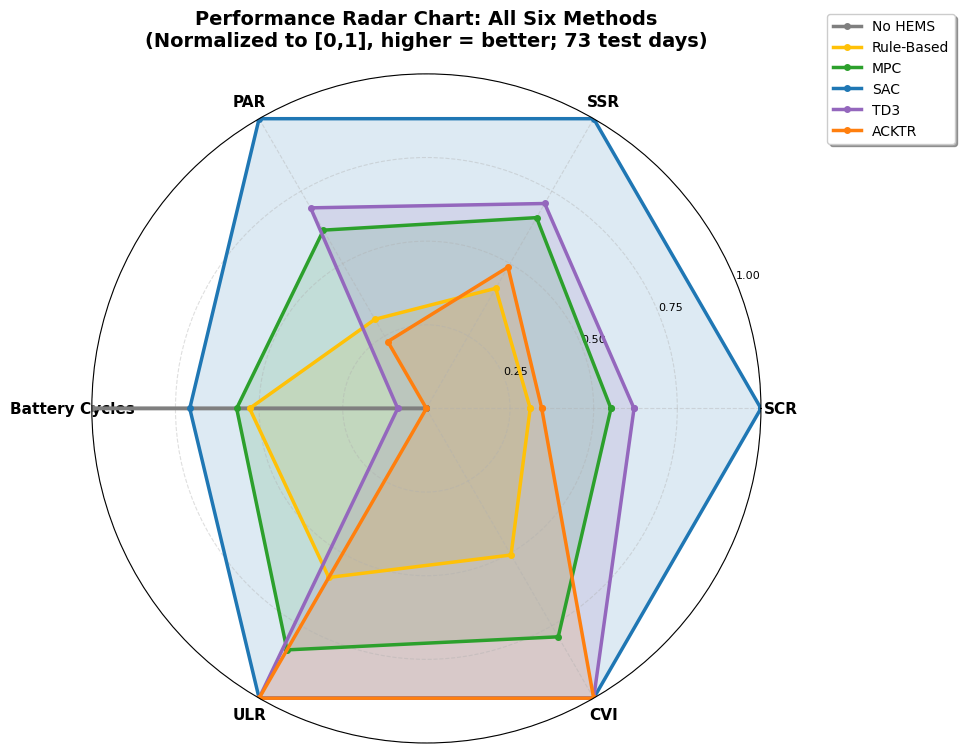
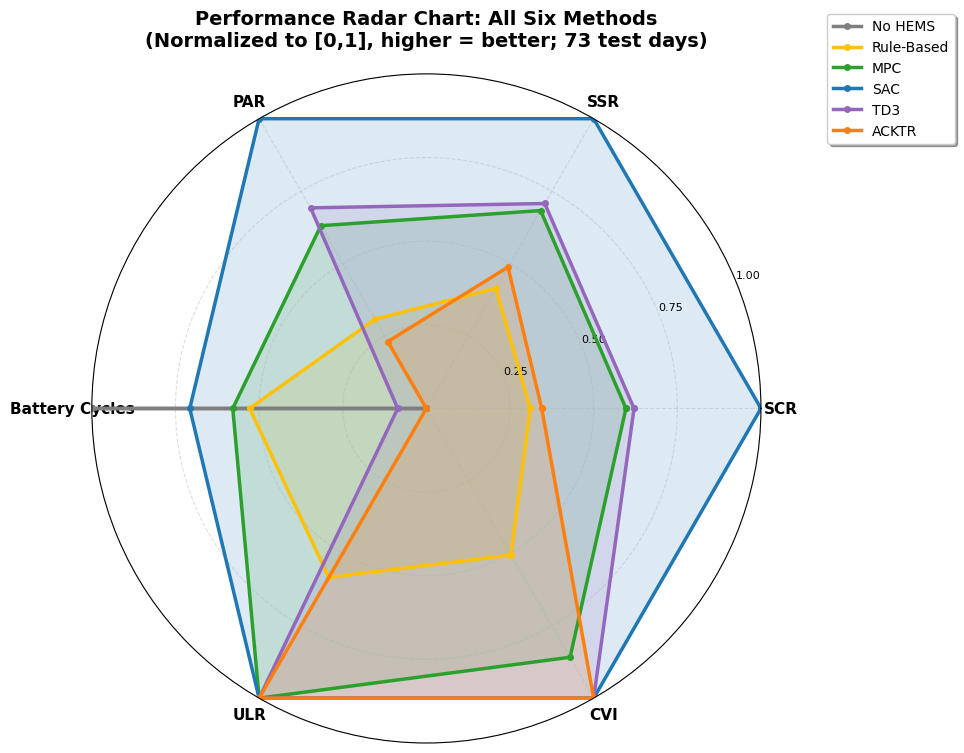
Update result images and replace MPC baseline with improved v2 version

diff --git a/src/baselines/MPCBaseline_improved_v2.py b/src/baselines/MPCBaseline_improved_v2.py
@@ -1,0 +1,285 @@
+
+#!/usr/bin/env python3
+# -*- coding: utf-8 -*-
+"""
+MPC Baseline with Full Thermal-HVAC Control
+-------------------------------------------
+This version replaces the battery-only MPC with a full MILP that optimises
+both battery scheduling and HVAC thermal power over a 12-hour horizon.
+It uses a 1R1C RC network for building thermal dynamics and enforces
+soft comfort constraints with large penalties.
+
+Usage:
+    from MPCBaseline_improved_v2 import MPCBaselineImprovedV2
+    mpc = MPCBaselineImprovedV2(horizon=12)
+    bat_action, hvac_action, slack = mpc.solve(
+        current_SoC, current_T_in,
+        load_forecast, pv_forecast,
+        temp_forecast, internal_gains_forecast,
+        price_forecast,
+        prev_P_ch=0.0, prev_P_dis=0.0, prev_Q_HVAC=0.0
+    )
+"""
+
+import numpy as np
+from pulp import *
+import warnings
+warnings.filterwarnings("ignore")
+
+
+class MPCBaselineImprovedV2:
+    """
+    MPC with battery and HVAC control using a 1R1C thermal model.
+    Solves a mixed-integer linear program (MILP) with binary variables
+    for battery charge/discharge and HVAC ON/OFF status.
+    """
+
+    def __init__(self, horizon=12):
+        self.H = horizon
+
+        # ---------- Battery parameters ----------
+        self.E_max = 10.0          # kWh
+        self.P_bat_max = 6.0       # kW
+        self.eta_ch = 0.95
+        self.eta_dis = 0.95
+        self.SoC_min = 0.05 * self.E_max   # 0.5 kWh
+        self.SoC_max = 0.95 * self.E_max   # 9.5 kWh
+
+        # ---------- HVAC / thermal parameters ----------
+        # These must match the values used in the DRL environment.
+        self.R = 5.0               # °C/kW   thermal resistance
+        self.C = 4.0               # kWh/°C  thermal capacitance
+        self.Q_max = 10.0          # kW      max thermal power
+        self.COP = 3.0             # coefficient of performance
+        self.T_min = 20.0          # °C      lower comfort bound
+        self.T_max = 26.0          # °C      upper comfort bound
+        self.lambda_slack = 1e3    # penalty for comfort violations
+
+        # ---------- Grid / economic ----------
+        self.c_export = 0.08       # $/kWh   feed‑in tariff
+
+        # ---------- Forecast improvement (optional) ----------
+        self.pv_history = []
+        self.load_history = []
+        self.temp_history = []
+
+    def solve(self, current_SoC, current_T_in,
+              P_load_forecast, P_pv_forecast,
+              T_out_forecast, Q_internal_forecast,
+              price_forecast,
+              prev_P_ch=0.0, prev_P_dis=0.0, prev_Q_HVAC=0.0):
+        """
+        Solve the MPC optimisation problem.
+
+        Parameters
+        ----------
+        current_SoC : float
+            Current battery state of charge (kWh)
+        current_T_in : float
+            Current indoor temperature (°C)
+        P_load_forecast : list of float OR float
+            Forecasted non‑HVAC load (kW) for next H hours.
+            If a scalar is given, it is repeated H times.
+        P_pv_forecast : list of float OR float
+            Forecasted PV generation (kW)
+        T_out_forecast : list of float OR float
+            Forecasted outdoor temperature (°C)
+        Q_internal_forecast : list of float OR float
+            Forecasted internal heat gains (kW) from occupants + solar
+        price_forecast : list of float OR float
+            Electricity prices ($/kWh)
+        prev_P_ch, prev_P_dis, prev_Q_HVAC : float
+            Previous actions (used for smoothness, optional)
+
+        Returns
+        -------
+        bat_action : float
+            Battery power (kW), positive = discharge, negative = charge
+        hvac_action : float
+            HVAC thermal power (kW), positive = cooling
+        slack_total : float
+            Total slack used (comfort violations) – for monitoring
+        """
+        H = self.H
+
+        # ---------- Helper to convert scalar to list and pad ----------
+        def to_list_and_pad(value, length):
+            """Convert scalar to list of length `length`, or pad existing list."""
+            if not isinstance(value, (list, tuple, np.ndarray)):
+                # Scalar: repeat it `length` times
+                return [value] * length
+            # It's already a list-like object
+            if len(value) < length:
+                # Pad with last value
+                return list(value) + [value[-1]] * (length - len(value))
+            return list(value[:length])
+
+        # Convert all forecast inputs to lists of length H
+        P_load_forecast = to_list_and_pad(P_load_forecast, H)
+        P_pv_forecast   = to_list_and_pad(P_pv_forecast, H)
+        T_out_forecast  = to_list_and_pad(T_out_forecast, H)
+        Q_internal_forecast = to_list_and_pad(Q_internal_forecast, H)
+        price_forecast  = to_list_and_pad(price_forecast, H)
+
+        # ---------- Optional forecast improvement ----------
+        self.load_history.append(P_load_forecast[0])
+        self.pv_history.append(P_pv_forecast[0])
+        self.temp_history.append(T_out_forecast[0])
+        if len(self.load_history) > 48:
+            self.load_history.pop(0)
+            self.pv_history.pop(0)
+            self.temp_history.pop(0)
+
+        improved_load = self._improve_forecast(P_load_forecast, self.load_history)
+        improved_pv   = self._improve_forecast(P_pv_forecast, self.pv_history)
+
+        # ---------- Build the MILP model ----------
+        prob = LpProblem("MPC_HVAC", LpMinimize)
+
+        # ----- Decision variables -----
+        # Battery
+        P_ch = [LpVariable(f"ch_{t}", lowBound=0, upBound=self.P_bat_max) for t in range(H)]
+        P_dis = [LpVariable(f"dis_{t}", lowBound=0, upBound=self.P_bat_max) for t in range(H)]
+        SoC = [LpVariable(f"soc_{t}", lowBound=self.SoC_min, upBound=self.SoC_max) for t in range(H+1)]
+        z_ch = [LpVariable(f"zch_{t}", cat='Binary') for t in range(H)]
+        z_dis = [LpVariable(f"zdis_{t}", cat='Binary') for t in range(H)]
+
+        # Grid
+        P_import = [LpVariable(f"imp_{t}", lowBound=0) for t in range(H)]
+        P_export = [LpVariable(f"exp_{t}", lowBound=0) for t in range(H)]
+
+        # HVAC / thermal
+        Q_hvac = [LpVariable(f"qhv_{t}", lowBound=0, upBound=self.Q_max) for t in range(H)]
+        z_on = [LpVariable(f"zon_{t}", cat='Binary') for t in range(H)]
+        P_hvac_elec = [LpVariable(f"phe_{t}", lowBound=0) for t in range(H)]
+
+        # Indoor temperature (H+1 so we have T_in[H] for the final step)
+        T_in = [LpVariable(f"tin_{t}", lowBound=0, upBound=40) for t in range(H+1)]
+
+        # Slack variables for comfort (soft constraints)
+        slack_cool = [LpVariable(f"slack_cool_{t}", lowBound=0) for t in range(H)]
+        slack_heat = [LpVariable(f"slack_heat_{t}", lowBound=0) for t in range(H)]
+
+        # HVAC smoothness (linearisation of absolute differences)
+        delta_pos = [LpVariable(f"delta_pos_{t}", lowBound=0) for t in range(1, H)]
+        delta_neg = [LpVariable(f"delta_neg_{t}", lowBound=0) for t in range(1, H)]
+
+        # ----- Initial conditions -----
+        prob += SoC[0] == current_SoC
+        prob += T_in[0] == current_T_in
+
+        # ----- Constraints for each time step -----
+        for t in range(H):
+            # Power balance
+            prob += (P_import[t] - P_export[t] + improved_pv[t] + P_dis[t] ==
+                     improved_load[t] + P_ch[t] + P_hvac_elec[t])
+
+            # Battery complementarity
+            prob += P_ch[t] <= z_ch[t] * self.P_bat_max
+            prob += P_dis[t] <= z_dis[t] * self.P_bat_max
+            prob += z_ch[t] + z_dis[t] <= 1
+
+            # Battery dynamics
+            prob += SoC[t+1] == SoC[t] + (self.eta_ch * P_ch[t] - P_dis[t] / self.eta_dis) / self.E_max
+
+            # HVAC electrical power
+            prob += P_hvac_elec[t] == Q_hvac[t] / self.COP
+
+            # HVAC ON/OFF coupling
+            prob += Q_hvac[t] <= self.Q_max * z_on[t]
+
+            # Thermal dynamics (1R1C, forward Euler)
+            dt = 1.0  # hourly
+            prob += T_in[t+1] == T_in[t] + (dt / self.C) * (
+                        (T_out_forecast[t] - T_in[t]) / self.R
+                        + Q_hvac[t]
+                        + Q_internal_forecast[t]
+                    )
+
+            # Soft comfort constraints
+            prob += T_in[t] >= self.T_min - slack_cool[t]
+            prob += T_in[t] <= self.T_max + slack_heat[t]
+
+        # ----- Constraints for HVAC smoothness (linearised) -----
+        for t in range(1, H):
+            prob += Q_hvac[t] - Q_hvac[t-1] == delta_pos[t-1] - delta_neg[t-1]
+
+        # ----- Objective -----
+        obj = 0
+        for t in range(H):
+            # Electricity cost
+            obj += price_forecast[t] * P_import[t] - self.c_export * P_export[t]
+            # Battery degradation (small penalty to encourage smooth operation)
+            obj += 0.0005 * (P_ch[t] + P_dis[t])
+            # Comfort slack penalties (large weight)
+            obj += self.lambda_slack * (slack_cool[t] + slack_heat[t])
+
+        # HVAC smoothness penalty (linear absolute difference)
+        for t in range(1, H):
+            obj += 0.001 * (delta_pos[t-1] + delta_neg[t-1])
+
+        prob += obj
+
+        # ----- Solve -----
+        solver = PULP_CBC_CMD(msg=False, timeLimit=60)
+        prob.solve(solver)
+
+        # ----- Extract results -----
+        if prob.status == 1:  # optimal solution found
+            bat_action = P_dis[0].varValue - P_ch[0].varValue
+            hvac_action = Q_hvac[0].varValue
+            slack_total = sum(slack_cool[t].varValue + slack_heat[t].varValue for t in range(H))
+            return bat_action, hvac_action, slack_total
+        else:
+            # Fallback heuristic if solver fails
+            return self._smart_fallback(current_SoC, current_T_in,
+                                        P_load_forecast[0], P_pv_forecast[0],
+                                        T_out_forecast[0], Q_internal_forecast[0],
+                                        price_forecast[0])
+
+    # ------------------------------------------------------------------
+    # Helper methods
+    # ------------------------------------------------------------------
+
+    def _improve_forecast(self, forecast, history):
+        """Improve forecast using historical pattern (optional)."""
+        improved = list(forecast)
+        if len(history) >= 24:
+            history_array = np.array(history[-48:])
+            if len(history_array) >= 24:
+                avg_pattern = []
+                for hour in range(24):
+                    indices = [i for i in range(len(history_array)) if i % 24 == hour]
+                    if indices:
+                        avg_pattern.append(np.mean(history_array[indices]))
+                    else:
+                        avg_pattern.append(1.0)
+                for t in range(len(improved)):
+                    pattern_value = avg_pattern[t % 24]
+                    if pattern_value > 0:
+                        scale = np.clip(improved[t] / pattern_value, 0.5, 2.0)
+                        improved[t] = 0.7 * improved[t] + 0.3 * pattern_value * scale
+        return improved
+
+    def _smart_fallback(self, SoC, T_in, P_load, P_pv, T_out, Q_internal, price):
+        """Simple heuristic fallback when MILP solver fails."""
+        net = P_load - P_pv
+        bat_action = 0.0
+        hvac_action = 0.0
+
+        # Battery heuristic
+        if price > 0.20 and net > 0 and SoC > self.SoC_min + 0.5:
+            bat_action = -min(net, self.P_bat_max)   # discharge
+        elif price < 0.12 and net < 0 and SoC < self.SoC_max - 0.5:
+            bat_action = min(-net, self.P_bat_max)   # charge
+
+        # HVAC heuristic: simple proportional control around 22°C
+        T_set = 22.0
+        if T_out > T_set + 2.0:
+            hvac_action = min(self.Q_max, max(0, (T_out - T_set) * 0.5))
+        elif T_out < T_set - 2.0:
+            hvac_action = min(self.Q_max, max(0, (T_set - T_out) * 0.5))
+        else:
+            hvac_action = 0.0
+
+        return bat_action, hvac_action, 0.0
